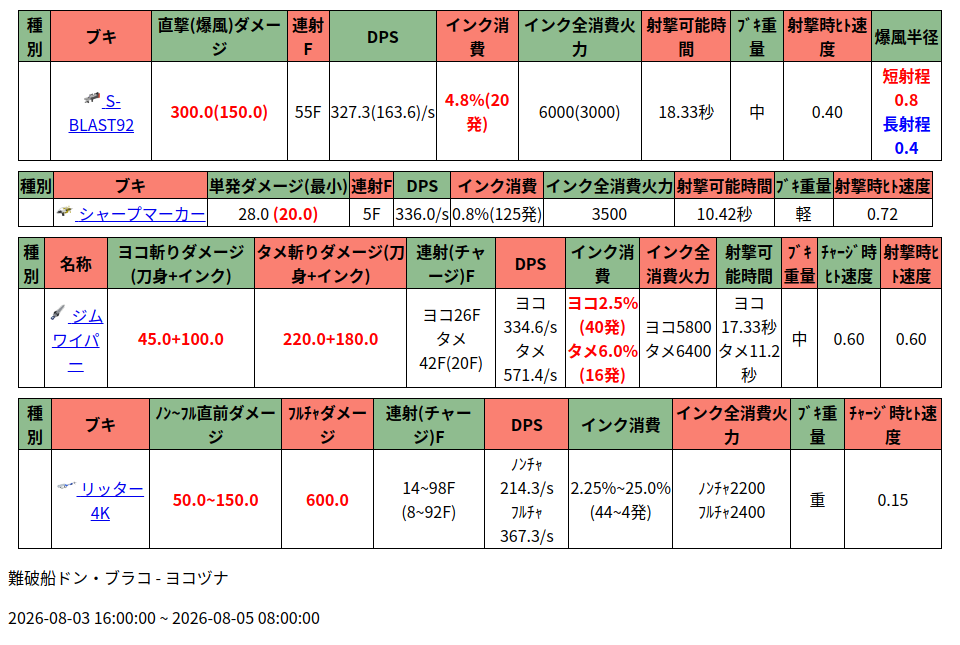
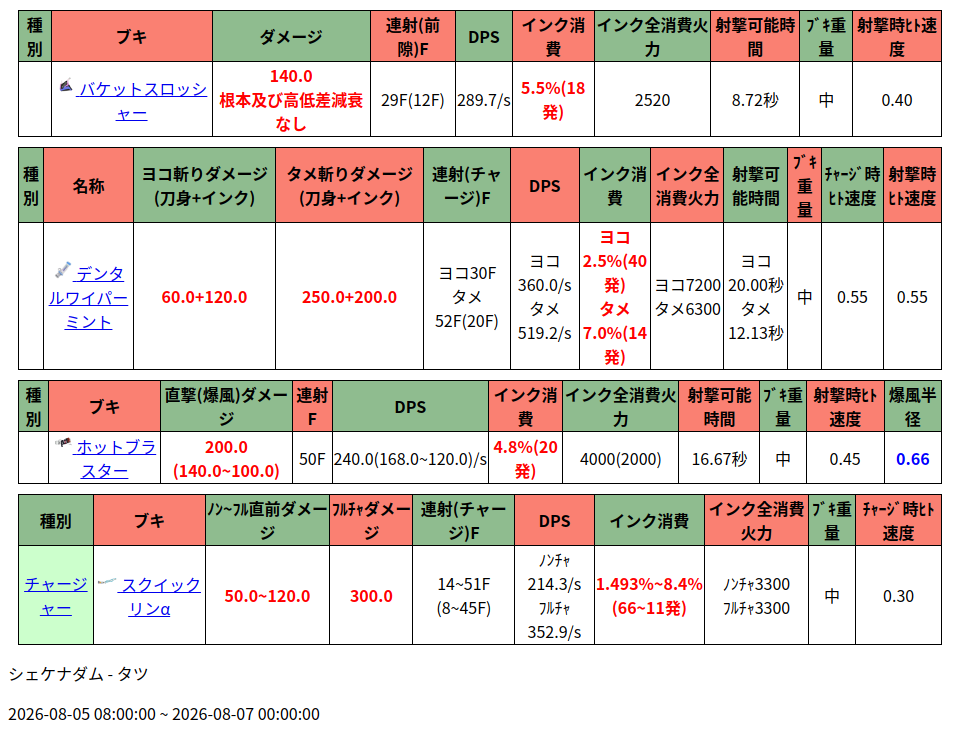
Automated changes by GitHub Actions

diff --git a/salmonRun.html b/salmonRun.html
@@ -1,1 +1,1 @@
-<head><meta charset="UTF-8"><style>table{border-collapse: collapse;border: 1px solid black;margin:10px;}td, th {border: 1px solid black;}</style></head><table><thead> <tr>  <td style="background-color:DarkSeaGreen; text-align:center;">   <strong>    種別   </strong>  </td>  <td style="background-color:Salmon; text-align:center;">   <strong>    ブキ   </strong>  </td>  <td style="background-color:DarkSeaGreen; text-align:center;">   <strong>    直撃(爆風)ダメージ   </strong>  </td>  <td style="background-color:Salmon; text-align:center;">   <strong>    連射F   </strong>  </td>  <td style="background-color:DarkSeaGreen; text-align:center;">   <strong>    DPS   </strong>  </td>  <td style="background-color:Salmon; text-align:center;">   <strong>    インク消費   </strong>  </td>  <td style="background-color:DarkSeaGreen; text-align:center;">   <strong>    インク全消費火力   </strong>  </td>  <td style="background-color:Salmon; text-align:center;">   <strong>    射撃可能時間   </strong>  </td>  <td style="background-color:DarkSeaGreen; text-align:center;">   <strong>    ﾌﾞｷ重量   </strong>  </td>  <td style="background-color:Salmon; text-align:center;">   <strong>    射撃時ﾋﾄ速度   </strong>  </td>  <td style="background-color:DarkSeaGreen; text-align:center;">   <strong>    爆風半径   </strong>  </td> </tr></thead><tr><td></td> <td style="text-align:center;">  <a data-lightbox="imageset" href="https://cdn.wikiwiki.jp/to/w/splatoon3mix/icon/::attach/S-BLAST92.png?rev=98a3cd103faa65c7307b0d11d5ed9584&amp;t=20230602152512" title="S-BLAST92">   <img alt="S-BLAST92" height="20" loading="lazy" src="https://cdn.wikiwiki.jp/to/w/splatoon3mix/icon/::ref/S-BLAST92.png?rev=98a3cd103faa65c7307b0d11d5ed9584&amp;t=20230602152512" title="S-BLAST92" width="20"/>  </a>  <a class="rel-wiki-page" href="/splatoon3mix/%E3%83%96%E3%82%AD/S-BLAST92" title="ブキ/S-BLAST92">   S-BLAST92  </a> </td> <td style="text-align:center;">  <span class="wikicolor" style="color:Red">   <strong>    300.0(150.0)   </strong>  </span> </td> <td style="text-align:center;">  55F </td> <td style="text-align:center;">  327.3(163.6)/s </td> <td style="text-align:center;">  <span class="wikicolor" style="color:Red">   <strong>    4.8%(20発)   </strong>  </span> </td> <td style="text-align:center;">  6000(3000) </td> <td style="text-align:center;">  18.33秒 </td> <td style="text-align:center;">  中 </td> <td style="text-align:center;">  0.40 </td> <td style="text-align:center;">  <span class="wikicolor" style="color:red">   <strong>    短射程 0.8   </strong>  </span>  <br class="spacer"/>  <span class="wikicolor" style="color:blue">   <strong>    長射程 0.4   </strong>  </span> </td></tr></table><table><thead> <tr>  <td style="background-color:DarkSeaGreen; text-align:center;">   <strong>    種別   </strong>  </td>  <td style="background-color:Salmon; text-align:center;">   <strong>    ブキ   </strong>  </td>  <td style="background-color:DarkSeaGreen; text-align:center;">   <strong>    単発ダメージ(最小)   </strong>  </td>  <td style="background-color:Salmon; text-align:center;">   <strong>    連射F   </strong>  </td>  <td style="background-color:DarkSeaGreen; text-align:center;">   <strong>    DPS   </strong>  </td>  <td style="background-color:Salmon; text-align:center;">   <strong>    インク消費   </strong>  </td>  <td style="background-color:DarkSeaGreen; text-align:center;">   <strong>    インク全消費火力   </strong>  </td>  <td style="background-color:Salmon; text-align:center;">   <strong>    射撃可能時間   </strong>  </td>  <td style="background-color:DarkSeaGreen; text-align:center;">   <strong>    ﾌﾞｷ重量   </strong>  </td>  <td style="background-color:Salmon; text-align:center;">   <strong>    射撃時ﾋﾄ速度   </strong>  </td> </tr></thead><tr><td></td> <td style="text-align:center;">  <a data-lightbox="imageset" href="https://cdn.wikiwiki.jp/to/w/splatoon3mix/icon/::attach/%E3%82%B7%E3%83%A3%E3%83%BC%E3%83%97%E3%83%9E%E3%83%BC%E3%82%AB%E3%83%BC.png?rev=1f53326ed2f779537426c3ce02a55134&amp;t=20230627135402" title="シャープマーカー">   <img alt="シャープマーカー" height="20" loading="lazy" src="https://cdn.wikiwiki.jp/to/w/splatoon3mix/icon/::ref/%E3%82%B7%E3%83%A3%E3%83%BC%E3%83%97%E3%83%9E%E3%83%BC%E3%82%AB%E3%83%BC.png?rev=1f53326ed2f779537426c3ce02a55134&amp;t=20230627135402" title="シャープマーカー" width="20"/>  </a>  <a class="rel-wiki-page" href="/splatoon3mix/%E3%83%96%E3%82%AD/%E3%82%B7%E3%83%A3%E3%83%BC%E3%83%97%E3%83%9E%E3%83%BC%E3%82%AB%E3%83%BC" title="ブキ/シャープマーカー">   シャープマーカー  </a> </td> <td style="text-align:center;">  28.0  <span class="wikicolor" style="color:Red">   <strong>    (20.0)   </strong>  </span> </td> <td style="text-align:center;">  5F </td> <td style="text-align:center;">  336.0/s </td> <td style="text-align:center;">  0.8%(125発) </td> <td style="text-align:center;">  3500 </td> <td style="text-align:center;">  10.42秒 </td> <td style="text-align:center;">  軽 </td> <td style="text-align:center;">  0.72 </td></tr></table><table><thead> <tr>  <td style="background-color:DarkSeaGreen; text-align:center;">   <strong>    種別   </strong>  </td>  <td style="background-color:Salmon; text-align:center;">   <strong>    名称   </strong>  </td>  <td style="background-color:DarkSeaGreen; text-align:center;">   <strong>    ヨコ斬りダメージ(刀身+インク)   </strong>  </td>  <td style="background-color:Salmon; text-align:center;">   <strong>    タメ斬りダメージ(刀身+インク)   </strong>  </td>  <td style="background-color:DarkSeaGreen; text-align:center;">   <strong>    連射(チャージ)F   </strong>  </td>  <td style="background-color:Salmon; text-align:center;">   <strong>    DPS   </strong>  </td>  <td style="background-color:DarkSeaGreen; text-align:center;">   <strong>    インク消費   </strong>  </td>  <td style="background-color:Salmon; text-align:center;">   <strong>    インク全消費火力   </strong>  </td>  <td style="background-color:DarkSeaGreen; text-align:center;">   <strong>    射撃可能時間   </strong>  </td>  <td style="background-color:Salmon; text-align:center;">   <strong>    ﾌﾞｷ重量   </strong>  </td>  <td style="background-color:DarkSeaGreen; text-align:center;">   <strong>    ﾁｬｰｼﾞ時ﾋﾄ速度   </strong>  </td>  <td style="background-color:Salmon; text-align:center;">   <strong>    射撃時ﾋﾄ速度   </strong>  </td> </tr></thead><tr><td></td> <td style="text-align:center;">  <a data-lightbox="imageset" href="https://cdn.wikiwiki.jp/to/w/splatoon3mix/icon/::attach/%E3%82%B8%E3%83%A0%E3%83%AF%E3%82%A4%E3%83%91%E3%83%BC.png?rev=25412cd375d23230ee114f8c91a98af1&amp;t=20220906104541" title="ジムワイパー">   <img alt="ジムワイパー" height="20" loading="lazy" src="https://cdn.wikiwiki.jp/to/w/splatoon3mix/icon/::ref/%E3%82%B8%E3%83%A0%E3%83%AF%E3%82%A4%E3%83%91%E3%83%BC.png?rev=25412cd375d23230ee114f8c91a98af1&amp;t=20220906104541" title="ジムワイパー" width="20"/>  </a>  <a class="rel-wiki-page" href="/splatoon3mix/%E3%83%96%E3%82%AD/%E3%82%B8%E3%83%A0%E3%83%AF%E3%82%A4%E3%83%91%E3%83%BC" title="ブキ/ジムワイパー">   ジムワイパー  </a> </td> <td style="text-align:center;">  <span class="wikicolor" style="color:Red">   <strong>    45.0+100.0   </strong>  </span> </td> <td style="text-align:center;">  <span class="wikicolor" style="color:Red">   <strong>    220.0+180.0   </strong>  </span> </td> <td style="text-align:center;">  ヨコ26F  <br class="spacer"/>  タメ42F(20F) </td> <td style="text-align:center;">  ヨコ334.6/s  <br class="spacer"/>  タメ571.4/s </td> <td style="text-align:center;">  <span class="wikicolor" style="color:Red">   <strong>    ヨコ2.5%(40発)    <br class="spacer"/>    タメ6.0%(16発)   </strong>  </span> </td> <td style="text-align:center;">  ヨコ5800  <br class="spacer"/>  タメ6400 </td> <td style="text-align:center;">  ヨコ17.33秒  <br class="spacer"/>  タメ11.2秒 </td> <td style="text-align:center;">  中 </td> <td style="text-align:center;">  0.60 </td> <td style="text-align:center;">  0.60 </td></tr></table><table><thead> <tr>  <td style="background-color:DarkSeaGreen; text-align:center;">   <strong>    種別   </strong>  </td>  <td style="background-color:Salmon; text-align:center;">   <strong>    ブキ   </strong>  </td>  <td style="background-color:DarkSeaGreen; text-align:center;">   <strong>    ﾉﾝ~ﾌﾙ直前ダメージ   </strong>  </td>  <td style="background-color:Salmon; text-align:center;">   <strong>    ﾌﾙﾁｬダメージ   </strong>  </td>  <td style="background-color:DarkSeaGreen; text-align:center;">   <strong>    連射(チャージ)F   </strong>  </td>  <td style="background-color:Salmon; text-align:center;">   <strong>    DPS   </strong>  </td>  <td style="background-color:DarkSeaGreen; text-align:center;">   <strong>    インク消費   </strong>  </td>  <td style="background-color:Salmon; text-align:center;">   <strong>    インク全消費火力   </strong>  </td>  <td style="background-color:DarkSeaGreen; text-align:center;">   <strong>    ﾌﾞｷ重量   </strong>  </td>  <td style="background-color:Salmon; text-align:center;">   <strong>    ﾁｬｰｼﾞ時ﾋﾄ速度   </strong>  </td> </tr></thead><tr><td></td> <td style="text-align:center;">  <a data-lightbox="imageset" href="https://cdn.wikiwiki.jp/to/w/splatoon3mix/icon/::attach/%E3%83%AA%E3%83%83%E3%82%BF%E3%83%BC4K.png?rev=4a0657ab4f525dfc5b33cd1bb2ce976a&amp;t=20220906111947" title="リッター4K">   <img alt="リッター4K" height="20" loading="lazy" src="https://cdn.wikiwiki.jp/to/w/splatoon3mix/icon/::ref/%E3%83%AA%E3%83%83%E3%82%BF%E3%83%BC4K.png?rev=4a0657ab4f525dfc5b33cd1bb2ce976a&amp;t=20220906111947" title="リッター4K" width="20"/>  </a>  <a class="rel-wiki-page" href="/splatoon3mix/%E3%83%96%E3%82%AD/%E3%83%AA%E3%83%83%E3%82%BF%E3%83%BC4K" title="ブキ/リッター4K">   リッター4K  </a> </td> <td style="text-align:center;">  <span class="wikicolor" style="color:Red">   <strong>    50.0~150.0   </strong>  </span> </td> <td style="text-align:center;">  <span class="wikicolor" style="color:Red">   <strong>    600.0   </strong>  </span> </td> <td style="text-align:center;">  14~98F  <br class="spacer"/>  (8~92F) </td> <td style="text-align:center;">  ﾉﾝﾁｬ214.3/s  <br class="spacer"/>  ﾌﾙﾁｬ367.3/s </td> <td style="text-align:center;">  2.25%~25.0%  <br class="spacer"/>  (44~4発) </td> <td style="text-align:center;">  ﾉﾝﾁｬ2200  <br class="spacer"/>  ﾌﾙﾁｬ2400 </td> <td style="text-align:center;">  重 </td> <td style="text-align:center;">  0.15 </td></tr></table><p>難破船ドン・ブラコ - ヨコヅナ</p><p>2026-08-03 16:00:00 ~ 2026-08-05 08:00:00</p>
+<head><meta charset="UTF-8"><style>table{border-collapse: collapse;border: 1px solid black;margin:10px;}td, th {border: 1px solid black;}</style></head><table><thead> <tr>  <td style="background-color:DarkSeaGreen; text-align:center;">   <strong>    種別   </strong>  </td>  <td style="background-color:Salmon; text-align:center;">   <strong>    ブキ   </strong>  </td>  <td style="background-color:DarkSeaGreen; text-align:center;">   <strong>    ダメージ   </strong>  </td>  <td style="background-color:Salmon; text-align:center;">   <strong>    連射(前隙)F   </strong>  </td>  <td style="background-color:DarkSeaGreen; text-align:center;">   <strong>    DPS   </strong>  </td>  <td style="background-color:Salmon; text-align:center;">   <strong>    インク消費   </strong>  </td>  <td style="background-color:DarkSeaGreen; text-align:center;">   <strong>    インク全消費火力   </strong>  </td>  <td style="background-color:Salmon; text-align:center;">   <strong>    射撃可能時間   </strong>  </td>  <td style="background-color:DarkSeaGreen; text-align:center;">   <strong>    ﾌﾞｷ重量   </strong>  </td>  <td style="background-color:Salmon; text-align:center;">   <strong>    射撃時ﾋﾄ速度   </strong>  </td> </tr></thead><tr><td></td> <td style="text-align:center;">  <a data-lightbox="imageset" href="https://cdn.wikiwiki.jp/to/w/splatoon3mix/icon/::attach/%E3%83%90%E3%82%B1%E3%83%83%E3%83%88%E3%82%B9%E3%83%AD%E3%83%83%E3%82%B7%E3%83%A3%E3%83%BC.png?rev=a584176d80465fdf6e5790982da674ec&amp;t=20220906103852" title="バケットスロッシャー">   <img alt="バケットスロッシャー" height="20" loading="lazy" src="https://cdn.wikiwiki.jp/to/w/splatoon3mix/icon/::ref/%E3%83%90%E3%82%B1%E3%83%83%E3%83%88%E3%82%B9%E3%83%AD%E3%83%83%E3%82%B7%E3%83%A3%E3%83%BC.png?rev=a584176d80465fdf6e5790982da674ec&amp;t=20220906103852" title="バケットスロッシャー" width="20"/>  </a>  <a class="rel-wiki-page" href="/splatoon3mix/%E3%83%96%E3%82%AD/%E3%83%90%E3%82%B1%E3%83%83%E3%83%88%E3%82%B9%E3%83%AD%E3%83%83%E3%82%B7%E3%83%A3%E3%83%BC" title="ブキ/バケットスロッシャー">   バケットスロッシャー  </a> </td> <td style="text-align:center;">  <span class="wikicolor" style="color:Red">   <strong>    140.0    <br class="spacer"/>    根本及び高低差減衰なし   </strong>  </span> </td> <td style="text-align:center;">  29F(12F) </td> <td style="text-align:center;">  289.7/s </td> <td style="text-align:center;">  <span class="wikicolor" style="color:Red">   <strong>    5.5%(18発)   </strong>  </span> </td> <td style="text-align:center;">  2520 </td> <td style="text-align:center;">  8.72秒 </td> <td style="text-align:center;">  中 </td> <td style="text-align:center;">  0.40 </td></tr></table><table><thead> <tr>  <td style="background-color:DarkSeaGreen; text-align:center;">   <strong>    種別   </strong>  </td>  <td style="background-color:Salmon; text-align:center;">   <strong>    名称   </strong>  </td>  <td style="background-color:DarkSeaGreen; text-align:center;">   <strong>    ヨコ斬りダメージ(刀身+インク)   </strong>  </td>  <td style="background-color:Salmon; text-align:center;">   <strong>    タメ斬りダメージ(刀身+インク)   </strong>  </td>  <td style="background-color:DarkSeaGreen; text-align:center;">   <strong>    連射(チャージ)F   </strong>  </td>  <td style="background-color:Salmon; text-align:center;">   <strong>    DPS   </strong>  </td>  <td style="background-color:DarkSeaGreen; text-align:center;">   <strong>    インク消費   </strong>  </td>  <td style="background-color:Salmon; text-align:center;">   <strong>    インク全消費火力   </strong>  </td>  <td style="background-color:DarkSeaGreen; text-align:center;">   <strong>    射撃可能時間   </strong>  </td>  <td style="background-color:Salmon; text-align:center;">   <strong>    ﾌﾞｷ重量   </strong>  </td>  <td style="background-color:DarkSeaGreen; text-align:center;">   <strong>    ﾁｬｰｼﾞ時ﾋﾄ速度   </strong>  </td>  <td style="background-color:Salmon; text-align:center;">   <strong>    射撃時ﾋﾄ速度   </strong>  </td> </tr></thead><tr><td></td> <td style="text-align:center;">  <a data-lightbox="imageset" href="https://cdn.wikiwiki.jp/to/w/splatoon3mix/icon/::attach/%E3%83%87%E3%83%B3%E3%82%BF%E3%83%AB%E3%83%AF%E3%82%A4%E3%83%91%E3%83%BC%E3%83%9F%E3%83%B3%E3%83%88.png?rev=736086270d4b8468d43786bb5e35c5ba&amp;t=20240603134347" title="デンタルワイパーミント">   <img alt="デンタルワイパーミント" height="20" loading="lazy" src="https://cdn.wikiwiki.jp/to/w/splatoon3mix/icon/::ref/%E3%83%87%E3%83%B3%E3%82%BF%E3%83%AB%E3%83%AF%E3%82%A4%E3%83%91%E3%83%BC%E3%83%9F%E3%83%B3%E3%83%88.png.webp?rev=736086270d4b8468d43786bb5e35c5ba&amp;t=20240603134347" title="デンタルワイパーミント" width="20"/>  </a>  <a class="rel-wiki-page" href="/splatoon3mix/%E3%83%96%E3%82%AD/%E3%83%87%E3%83%B3%E3%82%BF%E3%83%AB%E3%83%AF%E3%82%A4%E3%83%91%E3%83%BC%E3%83%9F%E3%83%B3%E3%83%88" title="ブキ/デンタルワイパーミント">   デンタルワイパーミント  </a> </td> <td style="text-align:center;">  <span class="wikicolor" style="color:Red">   <strong>    60.0+120.0   </strong>  </span> </td> <td style="text-align:center;">  <span class="wikicolor" style="color:Red">   <strong>    250.0+200.0   </strong>  </span> </td> <td style="text-align:center;">  ヨコ30F  <br class="spacer"/>  タメ52F(20F) </td> <td style="text-align:center;">  ヨコ360.0/s  <br class="spacer"/>  タメ519.2/s </td> <td style="text-align:center;">  <span class="wikicolor" style="color:Red">   <strong>    ヨコ2.5%(40発)    <br class="spacer"/>    タメ7.0%(14発)   </strong>  </span> </td> <td style="text-align:center;">  ヨコ7200  <br class="spacer"/>  タメ6300 </td> <td style="text-align:center;">  ヨコ20.00秒  <br class="spacer"/>  タメ12.13秒 </td> <td style="text-align:center;">  中 </td> <td style="text-align:center;">  0.55 </td> <td style="text-align:center;">  0.55 </td></tr></table><table><thead> <tr>  <td style="background-color:DarkSeaGreen; text-align:center;">   <strong>    種別   </strong>  </td>  <td style="background-color:Salmon; text-align:center;">   <strong>    ブキ   </strong>  </td>  <td style="background-color:DarkSeaGreen; text-align:center;">   <strong>    直撃(爆風)ダメージ   </strong>  </td>  <td style="background-color:Salmon; text-align:center;">   <strong>    連射F   </strong>  </td>  <td style="background-color:DarkSeaGreen; text-align:center;">   <strong>    DPS   </strong>  </td>  <td style="background-color:Salmon; text-align:center;">   <strong>    インク消費   </strong>  </td>  <td style="background-color:DarkSeaGreen; text-align:center;">   <strong>    インク全消費火力   </strong>  </td>  <td style="background-color:Salmon; text-align:center;">   <strong>    射撃可能時間   </strong>  </td>  <td style="background-color:DarkSeaGreen; text-align:center;">   <strong>    ﾌﾞｷ重量   </strong>  </td>  <td style="background-color:Salmon; text-align:center;">   <strong>    射撃時ﾋﾄ速度   </strong>  </td>  <td style="background-color:DarkSeaGreen; text-align:center;">   <strong>    爆風半径   </strong>  </td> </tr></thead><tr><td></td> <td style="text-align:center;">  <a data-lightbox="imageset" href="https://cdn.wikiwiki.jp/to/w/splatoon3mix/icon/::attach/%E3%83%9B%E3%83%83%E3%83%88%E3%83%96%E3%83%A9%E3%82%B9%E3%82%BF%E3%83%BC.png?rev=b3bb1bd6dccefa222fe7e5c900771c08&amp;t=20220906104633" title="ホットブラスター">   <img alt="ホットブラスター" height="20" loading="lazy" src="https://cdn.wikiwiki.jp/to/w/splatoon3mix/icon/::ref/%E3%83%9B%E3%83%83%E3%83%88%E3%83%96%E3%83%A9%E3%82%B9%E3%82%BF%E3%83%BC.png?rev=b3bb1bd6dccefa222fe7e5c900771c08&amp;t=20220906104633" title="ホットブラスター" width="20"/>  </a>  <a class="rel-wiki-page" href="/splatoon3mix/%E3%83%96%E3%82%AD/%E3%83%9B%E3%83%83%E3%83%88%E3%83%96%E3%83%A9%E3%82%B9%E3%82%BF%E3%83%BC" title="ブキ/ホットブラスター">   ホットブラスター  </a> </td> <td style="text-align:center;">  <span class="wikicolor" style="color:Red">   <strong>    200.0    <br class="spacer"/>    (140.0~100.0)   </strong>  </span> </td> <td style="text-align:center;">  50F </td> <td style="text-align:center;">  240.0(168.0~120.0)/s </td> <td style="text-align:center;">  <span class="wikicolor" style="color:Red">   <strong>    4.8%(20発)   </strong>  </span> </td> <td style="text-align:center;">  4000(2000) </td> <td style="text-align:center;">  16.67秒 </td> <td style="text-align:center;">  中 </td> <td style="text-align:center;">  0.45 </td> <td style="text-align:center;">  <span class="wikicolor" style="color:blue">   <strong>    0.66   </strong>  </span> </td></tr></table><table><thead> <tr>  <td style="background-color:DarkSeaGreen; text-align:center;">   <strong>    種別   </strong>  </td>  <td style="background-color:Salmon; text-align:center;">   <strong>    ブキ   </strong>  </td>  <td style="background-color:DarkSeaGreen; text-align:center;">   <strong>    ﾉﾝ~ﾌﾙ直前ダメージ   </strong>  </td>  <td style="background-color:Salmon; text-align:center;">   <strong>    ﾌﾙﾁｬダメージ   </strong>  </td>  <td style="background-color:DarkSeaGreen; text-align:center;">   <strong>    連射(チャージ)F   </strong>  </td>  <td style="background-color:Salmon; text-align:center;">   <strong>    DPS   </strong>  </td>  <td style="background-color:DarkSeaGreen; text-align:center;">   <strong>    インク消費   </strong>  </td>  <td style="background-color:Salmon; text-align:center;">   <strong>    インク全消費火力   </strong>  </td>  <td style="background-color:DarkSeaGreen; text-align:center;">   <strong>    ﾌﾞｷ重量   </strong>  </td>  <td style="background-color:Salmon; text-align:center;">   <strong>    ﾁｬｰｼﾞ時ﾋﾄ速度   </strong>  </td> </tr></thead><tr> <td rowspan="7" style="background-color:#ccffcc; text-align:center;">  <a class="rel-wiki-page" href="/splatoon3mix/%E3%83%96%E3%82%AD/%E3%83%81%E3%83%A3%E3%83%BC%E3%82%B8%E3%83%A3%E3%83%BC%E5%B1%9E" title="ブキ/チャージャー属">   チャージャー  </a> </td> <td style="text-align:center;">  <a data-lightbox="imageset" href="https://cdn.wikiwiki.jp/to/w/splatoon3mix/icon/::attach/%E3%82%B9%E3%82%AF%E3%82%A4%E3%83%83%E3%82%AF%E3%83%AA%E3%83%B3%CE%B1.png?rev=615c1848d4f7049c08ece6b1d11dfc6e&amp;t=20220905220120" title="スクイックリンα">   <img alt="スクイックリンα" height="20" loading="lazy" src="https://cdn.wikiwiki.jp/to/w/splatoon3mix/icon/::ref/%E3%82%B9%E3%82%AF%E3%82%A4%E3%83%83%E3%82%AF%E3%83%AA%E3%83%B3%CE%B1.png?rev=615c1848d4f7049c08ece6b1d11dfc6e&amp;t=20220905220120" title="スクイックリンα" width="20"/>  </a>  <a class="rel-wiki-page" href="/splatoon3mix/%E3%83%96%E3%82%AD/%E3%82%B9%E3%82%AF%E3%82%A4%E3%83%83%E3%82%AF%E3%83%AA%E3%83%B3%CE%B1" title="ブキ/スクイックリンα">   スクイックリンα  </a> </td> <td style="text-align:center;">  <span class="wikicolor" style="color:Red">   <strong>    50.0~120.0   </strong>  </span> </td> <td style="text-align:center;">  <span class="wikicolor" style="color:Red">   <strong>    300.0   </strong>  </span> </td> <td style="text-align:center;">  14~51F  <br class="spacer"/>  (8~45F) </td> <td style="text-align:center;">  ﾉﾝﾁｬ214.3/s  <br class="spacer"/>  ﾌﾙﾁｬ352.9/s </td> <td style="text-align:center;">  <span class="wikicolor" style="color:Red">   <strong>    1.493%~8.4%    <br class="spacer"/>    (66~11発)   </strong>  </span> </td> <td style="text-align:center;">  ﾉﾝﾁｬ3300  <br class="spacer"/>  ﾌﾙﾁｬ3300 </td> <td style="text-align:center;">  中 </td> <td style="text-align:center;">  0.30 </td></tr></table><p>シェケナダム - タツ</p><p>2026-08-05 08:00:00 ~ 2026-08-07 00:00:00</p>
